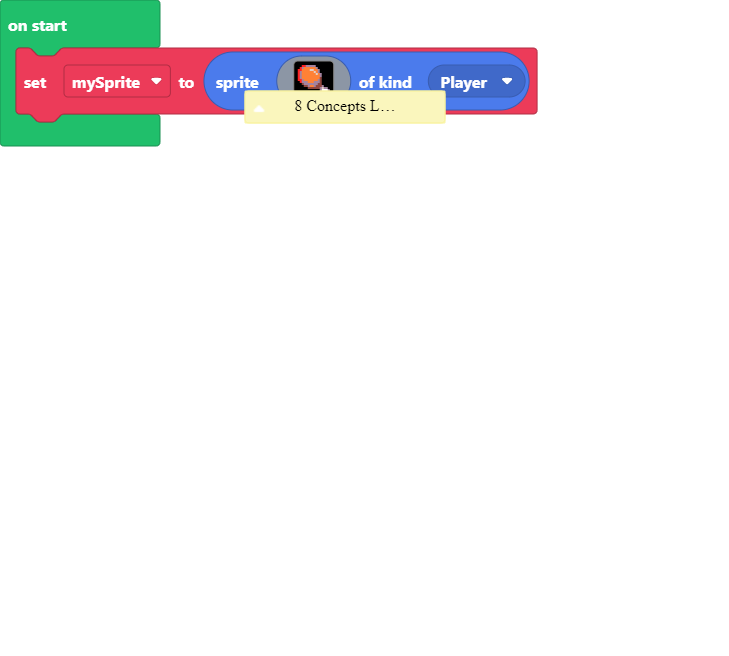
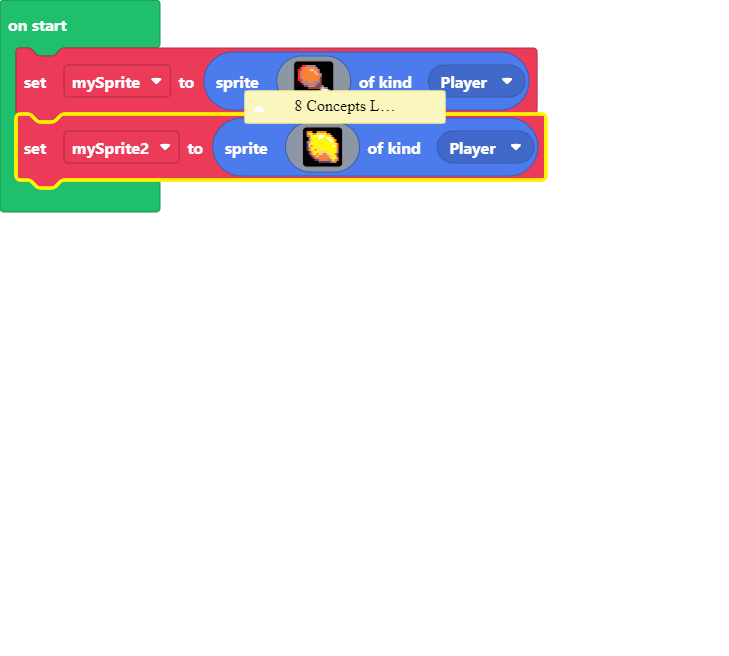
Update main.blocks, main.ts

Changed region(s): [[0.0, 0.1524, 0.7545, 0.3354]]

diff --git a/main.ts b/main.ts
@@ -55,3 +55,21 @@ let mySprite = sprites.create(img`
     . . . . . . . . . . . c 1 b c . 
     . . . . . . . . . . . . c c . . 
     `, SpriteKind.Player)
+let mySprite2 = sprites.create(img`
+    4 4 4 . . 4 4 4 4 4 . . . . . . 
+    4 5 5 4 4 5 5 5 5 5 4 4 . . . . 
+    b 4 5 5 1 5 1 1 1 5 5 5 4 . . . 
+    . b 5 5 5 5 1 1 5 5 1 1 5 4 . . 
+    . b d 5 5 5 5 5 5 5 5 1 1 5 4 . 
+    b 4 5 5 5 5 5 5 5 5 5 5 1 5 4 . 
+    c d 5 5 5 5 5 5 5 5 5 5 5 5 5 4 
+    c d 4 5 5 5 5 5 5 5 5 5 5 1 5 4 
+    c 4 5 5 5 d 5 5 5 5 5 5 5 5 5 4 
+    c 4 d 5 4 5 d 5 5 5 5 5 5 5 5 4 
+    . c 4 5 5 5 5 d d d 5 5 5 5 5 b 
+    . c 4 d 5 4 5 d 4 4 d 5 5 5 4 c 
+    . . c 4 4 d 4 4 4 4 4 d d 5 d c 
+    . . . c 4 4 4 4 4 4 4 4 5 5 5 4 
+    . . . . c c b 4 4 4 b b 4 5 4 4 
+    . . . . . . c c c c c c b b 4 . 
+    `, SpriteKind.Player)
